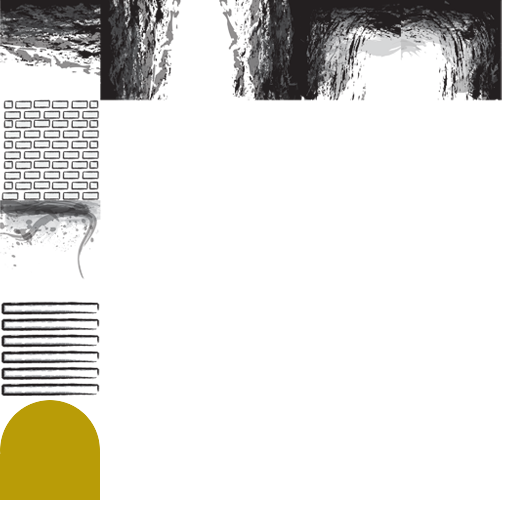
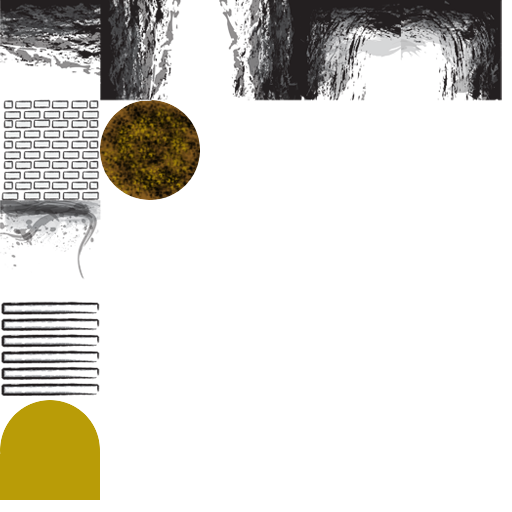
Jumping works... sort of.x

Changed region(s): [[0.1875, 0.1875, 0.4062, 0.4062]]

diff --git a/src/game_state.cpp b/src/game_state.cpp
@@ -1,5 +1,6 @@
 #include "math.h"
 #include "game_state.h"
+#include "jumper.h"
 
 Game_State::Game_State(void)
 :p(NULL), c(NULL), m(NULL), gravity(true), collision(true) {}
@@ -38,28 +39,52 @@ void Game_State::update(int &delta)
   bool c_movey = true, m_movey = false;
   bool p_movey = true;
   bool animate = false;
+  bool link = false;
+  
+  for (unsigned int i = 0; i < specials.size(); ++i)
+  {
+    if (c == p && c->will_collide(specials.at(i)))
+    {
+      specials.at(i)->stop_following();
+    }
+    if (specials.at(i)->get_type() == JUMPER)
+    {
+      if (((Jumper *)specials.at(i))->get_link() != NULL)
+      {
+        ((Jumper *)specials.at(i))->get_link()->setVSpeed(specials.at(i)->getVSpeed());
+        ((Jumper *)specials.at(i))->get_link()->setHSpeed(specials.at(i)->getHSpeed());
+        if (((Jumper *)specials.at(i))->get_link() == p)
+        {
+          link = true;
+        }
+      }
+    }
+  }
 
   // if we're not colliding with anything,
   // then FALL MWAHAHA - written on very
   // little sleep
   if (gravity)
   {
-    float y_val = y/TILE_HEIGHT;
     float my_val = my/TILE_HEIGHT;
-    if (y_val - my_val < m->get_height())
+    if (c != p)
     {
-      c->setVSpeed(GRAVITY_SPEED);
-      /*for (unsigned int i = 0; i < specials.size(); ++i)
+      float y_val = y/TILE_HEIGHT;
+      if (y_val - my_val < m->get_height())
       {
-        specials.at(i)->setVSpeed(GRAVITY_SPEED);
-      }*/
+        c->setVSpeed(GRAVITY_SPEED);
+      }
     }
-    float px, py;
-    p->get_top_left(px, py);
-    float py_val = py / TILE_HEIGHT;
-    if (py_val - my_val < m->get_height())
+    
+    if (!link)
     {
-      p->setVSpeed(GRAVITY_SPEED);
+      float px, py;
+      p->get_top_left(px, py);
+      float py_val = py / TILE_HEIGHT;
+      if (py_val - my_val < m->get_height())
+      {
+        p->setVSpeed(GRAVITY_SPEED);
+      }
     }
   }
 
@@ -101,24 +126,67 @@ void Game_State::update(int &delta)
      * hover issue.
      */
     c_movey = !c->will_collide_y(m) && !c->will_collide_platform(m);
+    if (c->getVSpeed() > 0)
+    {
+      for (unsigned int i = 0; c_movey && i < specials.size(); ++i)
+      {
+        if (c == specials.at(i))
+        {
+          continue;
+        }
+        c_movey = c_movey && (!c->will_collide(specials.at(i)));
+      }
+    }
     if (c != p)
     {
       p_movey = !p->will_collide_y(m) && !p->will_collide_platform(m);
+      if (p->getVSpeed() > 0)
+      {
+        for (unsigned int i = 0; p_movey && i < specials.size(); ++i)
+        {
+          p_movey = p_movey && (!c->will_collide(specials.at(i)));
+        }
+      }
       c_movey = c_movey && !c->will_collide_tile(m, LADDER, NULL);
+      if (c->getVSpeed() > 0)
+      {
+        for (unsigned int i = 0; c_movey && i < specials.size(); ++i)
+        {
+          if (c == specials.at(i))
+          {
+            continue;
+          }
+          c_movey = c_movey && (!c->will_collide(specials.at(i)));
+        }
+      }
     }
     if (c == p && !c_movey && c->getVSpeed() == GRAVITY_SPEED)
     {
       c->setVSpeed(PLAYER_SPEED);
       c_movey = !c->will_collide_y(m) && !c->will_collide_platform(m);
-      if (c != p)
+      if (c->getVSpeed() > 0)
       {
-        c_movey = c_movey && !c->will_collide_tile(m, LADDER, NULL);
+        for (unsigned int i = 0; c_movey && i < specials.size(); ++i)
+        {
+          if (c == specials.at(i))
+          {
+            continue;
+          }
+          c_movey = c_movey && (!c->will_collide(specials.at(i)));
+        }
       }
     }
     if (c != p && !p_movey && p->getVSpeed() == GRAVITY_SPEED)
     {
       p->setVSpeed(PLAYER_SPEED);
       p_movey = !p->will_collide_y(m) && !p->will_collide_platform(m);
+      if (p->getVSpeed() > 0)
+      {
+        for (unsigned int i = 0; p_movey && i < specials.size(); ++i)
+        {
+          p_movey = p_movey && (!c->will_collide(specials.at(i)));
+        }
+      }
     }
   }
 
@@ -355,11 +423,47 @@ void Game_State::key_pressed(unsigned char key, int x, int y)
         specials.at(i)->use_ability(m);
       }
       break;
+    case 'g':
+      if (c != p && ((Special *)c)->get_type() == JUMPER)
+      {
+        if (c->will_collide(p))
+        {
+          ((Jumper *)c)->set_link(p);
+        }
+        else
+        {
+          for (unsigned int i = 0; i < specials.size(); ++i)
+          {
+            if (c == specials.at(i))
+            {
+              continue;
+            }
+            if (c->will_collide(specials.at(i)))
+            {
+              ((Jumper *)c)->set_link(specials.at(i));
+              break;
+            }
+          }
+        }
+        if (((Jumper *)c)->get_link() != NULL)
+        {
+          float lx, ly, cx, cy;
+          c->get_top_left(cx, cy);
+          ((Jumper *)c)->get_link()->get_top_left(lx, ly);
+          ((Drawable *)((Jumper *)c)->get_link())->move(cx - lx, cy - ly - 80);
+          ((Jumper *)c)->get_link()->setVSpeed(0);
+        }
+      }
+      break;
     case 'q':
       if (c != p)
       {
         ((Special*)c)->stop_following();
         ((Special*)c)->set_mute(true);
+        if (((Special *)c)->get_type() == JUMPER)
+        {
+          ((Jumper *)c)->set_link(NULL);
+        }
       }
     case '0':
       c->setVSpeed(GRAVITY_SPEED);

diff --git a/src/main.cpp b/src/main.cpp
@@ -113,7 +113,7 @@ void initLevel(int level)
   Player *p;
   Drawable *block, *background, *breakable, *plat, *ladder, *paused_background;
   Drawable *map_image, *pointer, *left_block, *right_block, *left_corner_block;
-  Drawable *right_corner_block, *goal;
+  Drawable *right_corner_block, *moveable, *goal;
   Texture *t, *bg, *tiles, *pause_bg, *mi, *pi, *ahnold, *jumper;
   vector<Texture*> textures;
   vector<Drawable*> moveables;
@@ -193,17 +193,19 @@ void initLevel(int level)
   p = new Player(SCREEN_WIDTH / 2.0f - TILE_WIDTH / 2.0f,
                  SCREEN_HEIGHT / 2.0f - TILE_HEIGHT, PLAYER_RIGHT,
                  5, t, RIGHT, false, system, s_sound, m_channel);
-  block = new Drawable(0.0f, 0.0f, BLOCKS, 1, TILE, tiles);
-  left_block = new Drawable(0.0f, 0.0f, BLOCKS, 1, TILE, tiles);
-  left_block->set_cur_frame(LEFT_BLOCK_FRAME);
-  right_block = new Drawable(0.0f, 0.0f, BLOCKS, 1, TILE, tiles);
-  right_block->set_cur_frame(RIGHT_BLOCK_FRAME);
-  left_corner_block = new Drawable(0.0f, 0.0f, BLOCKS, 1, TILE, tiles);
-  left_corner_block->set_cur_frame(LEFT_CORNER_BLOCK_FRAME);
-  right_corner_block = new Drawable(0.0f, 0.0f, BLOCKS, 1, TILE, tiles);
-  right_corner_block->set_cur_frame(RIGHT_CORNER_BLOCK_FRAME);
+  block = new Drawable(0.0f, 0.0f, WALLS, 1, TILE, tiles);
+  left_block = new Drawable(0.0f, 0.0f, WALLS, 1, TILE, tiles);
+  left_block->set_cur_frame(LEFT_WALL_FRAME);
+  right_block = new Drawable(0.0f, 0.0f, WALLS, 1, TILE, tiles);
+  right_block->set_cur_frame(RIGHT_WALL_FRAME);
+  left_corner_block = new Drawable(0.0f, 0.0f, WALLS, 1, TILE, tiles);
+  left_corner_block->set_cur_frame(LEFT_CORNER_WALL_FRAME);
+  right_corner_block = new Drawable(0.0f, 0.0f, WALLS, 1, TILE, tiles);
+  right_corner_block->set_cur_frame(RIGHT_CORNER_WALL_FRAME);
   background = new Drawable(0.0f, 0.0f, 1, 1, BACKGROUND, bg);
-  breakable = new Drawable(0.0f, 0.0f, BREAKS, 1, TILE, tiles);
+  breakable = new Drawable(0.0f, 0.0f, BLOCKS, 1, TILE, tiles);
+  moveable = new Drawable(0.0f, 0.0f, BLOCK, 1, TILE, tiles);
+  moveable->set_cur_frame(MOVEABLE_BLOCK);
   plat = new Drawable(0.0f, 0.0f, PLATS, 1, TILE, tiles);
   ladder = new Drawable(0.0f, 0.0f, LADDS, 1, TILE, tiles);
   paused_background = new Drawable(0.0f, 0.0f, 1, 1, BACKGROUND, pause_bg);

diff --git a/src/jumper.cpp b/src/jumper.cpp
@@ -8,7 +8,8 @@ Jumper::Jumper(void)
 Jumper::Jumper(float x, float y, int num, int frames, int abil_frames,
                Texture *tex, direc dir, FMOD_SYSTEM *sys, FMOD_SOUND *music,
                FMOD_CHANNEL *ch, FMOD_SOUND *as, FMOD_CHANNEL *ac)
-:Special(x, y, num, frames, abil_frames, tex, dir, 0, 0, JUMPER, sys, music, ch, as, ac)
+:Special(x, y, num, frames, abil_frames, tex, dir, 0, 0, JUMPER, sys, music,
+         ch, as, ac), link(NULL)
 {
   loc[0] = x;
   loc[1] = y;
@@ -35,24 +36,7 @@ void Jumper::stop_following(Player *p)
   following = false;
 }
 
-void Jumper::go_home()
+void Jumper::go_home(void)
 {
   ((Drawable *)this)->move(loc[0]-get_x(), loc[1]-get_y());
-}
-
-// moves the player and also changes the direction
-// in which he moves
-void Jumper::move(int x, int y)
-{
-  ((Drawable *)this)->move(x, y);
-  if (x > 0)
-  {
-    setDirection(RIGHT);
-    set_tex_num(SPECIAL_RIGHT);
-  }
-  else if (x < 0)
-  {
-    setDirection(LEFT);
-    set_tex_num(SPECIAL_RIGHT);
-  }
 }

diff --git a/src/jumper.h b/src/jumper.h
@@ -9,6 +9,7 @@ class Jumper : public Special
 private:
   float loc[2];
   bool following;
+  Character *link;
   
 public:
   Jumper(void);
@@ -19,8 +20,10 @@ public:
   void use_ability(Map *m);
   void start_following(Player *p);
   void stop_following(Player *p);
-  void go_home();
-  void move(int x, int y);
+  void go_home(void);
+  
+  void set_link(Character *c) {link = c;}
+  Character *get_link(void) {return link;}
 };
 
 #endif // FLOCK__JUMPER__H

diff --git a/src/ahnold.cpp b/src/ahnold.cpp
@@ -57,20 +57,3 @@ void Ahnold::go_home()
 {
   ((Drawable *)this)->move(loc[0]-get_x(), loc[1]-get_y());
 }
-
-// moves the player and also changes the direction
-// in which he moves
-void Ahnold::move(int x, int y)
-{
-  ((Drawable *)this)->move(x, y);
-  if (x > 0)
-  {
-    setDirection(RIGHT);
-    set_tex_num(SPECIAL_RIGHT);
-  }
-  else if (x < 0)
-  {
-    setDirection(LEFT);
-    set_tex_num(SPECIAL_RIGHT);
-  }
-}

diff --git a/src/defines.h b/src/defines.h
@@ -90,16 +90,17 @@ typedef enum
 
 enum
 {
-  RIGHT_BLOCK_FRAME = 2,
-  LEFT_BLOCK_FRAME,
-  LEFT_CORNER_BLOCK_FRAME,
-  RIGHT_CORNER_BLOCK_FRAME
+  MOVEABLE_BLOCK = 2,
+  RIGHT_WALL_FRAME = 2,
+  LEFT_WALL_FRAME,
+  LEFT_CORNER_WALL_FRAME,
+  RIGHT_CORNER_WALL_FRAME
 };
 
 enum
 {
-  BLOCKS = 1,
-  BREAKS,
+  WALLS = 1,
+  BLOCKS,
   PLATS,
   LADDS,
   GOALT

diff --git a/src/ahnold.h b/src/ahnold.h
@@ -19,8 +19,7 @@ public:
   void use_ability(Map *m);
   void start_following(Player *p);
   void stop_following(Player *p);
-  void go_home();
-  void move(int x, int y);
+  void go_home(void);
 };
 
 #endif // FLOCK__AHNOLD__H
